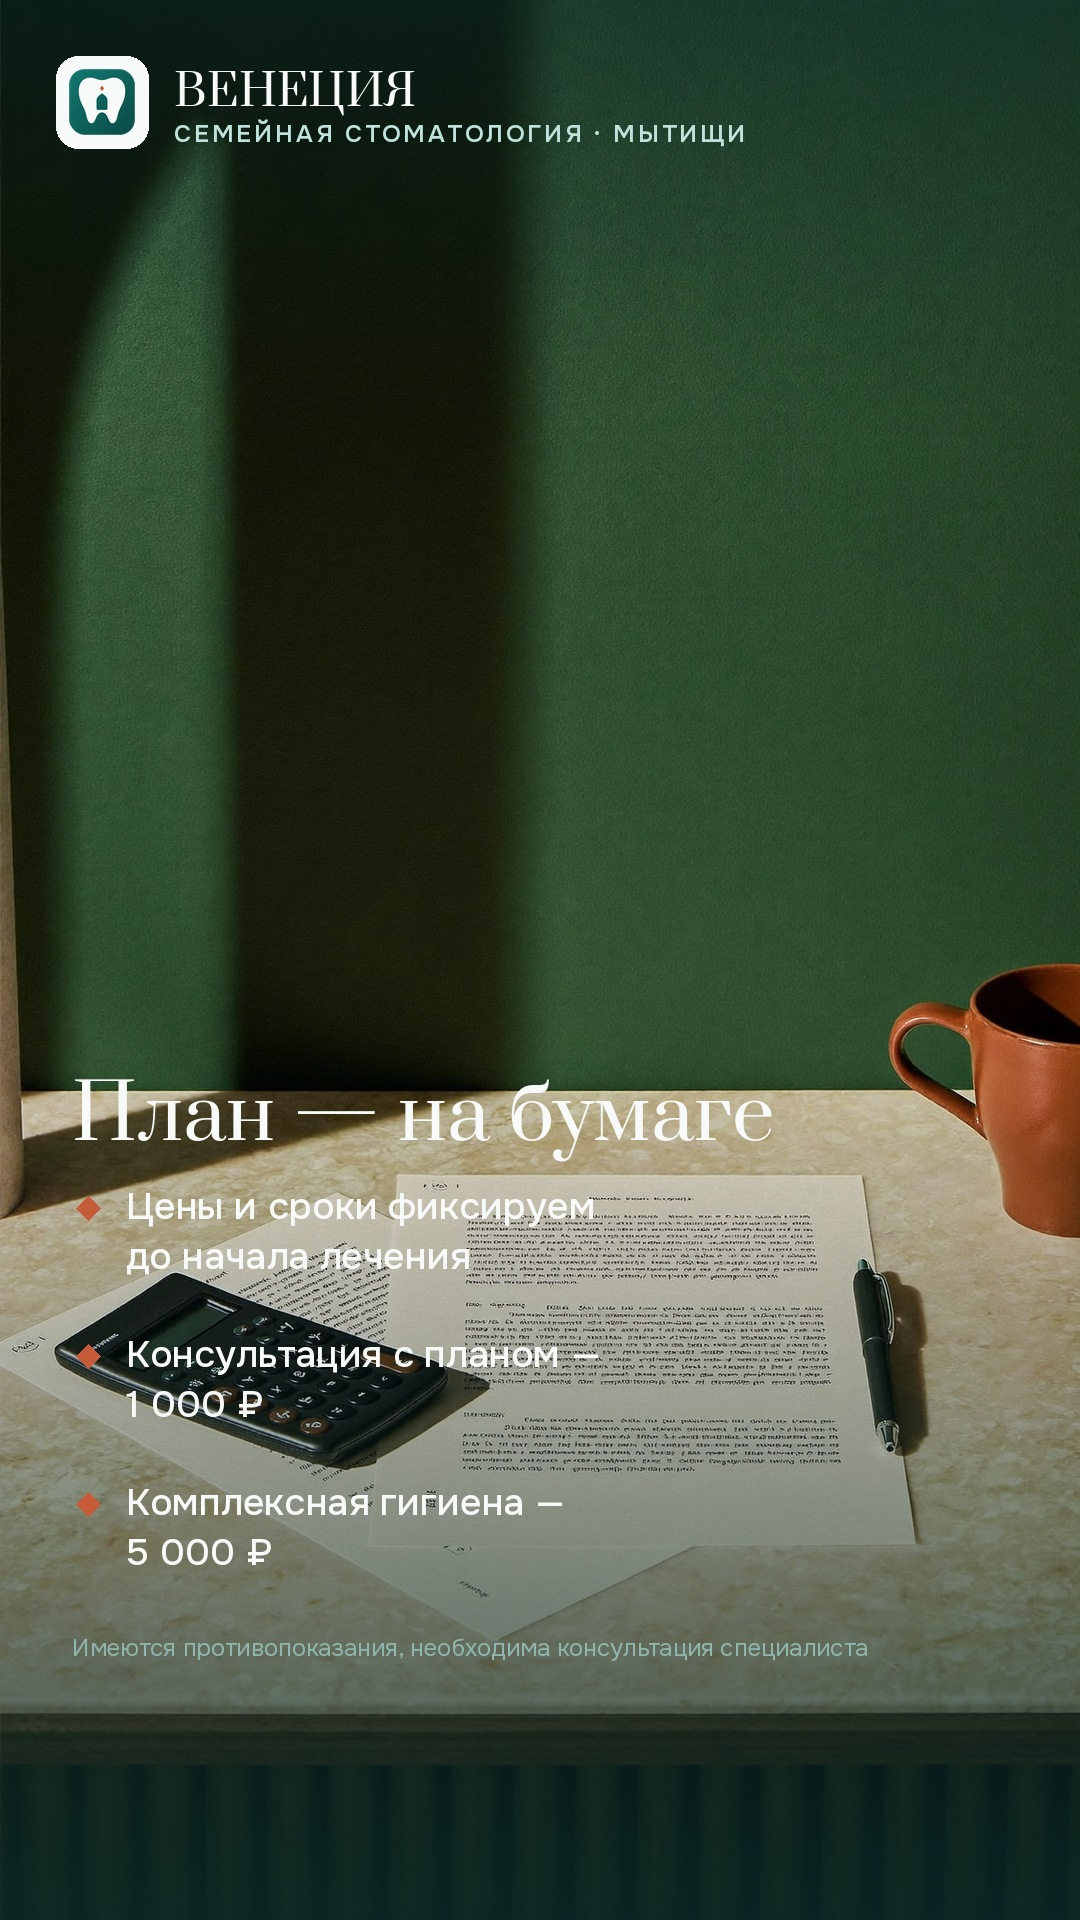
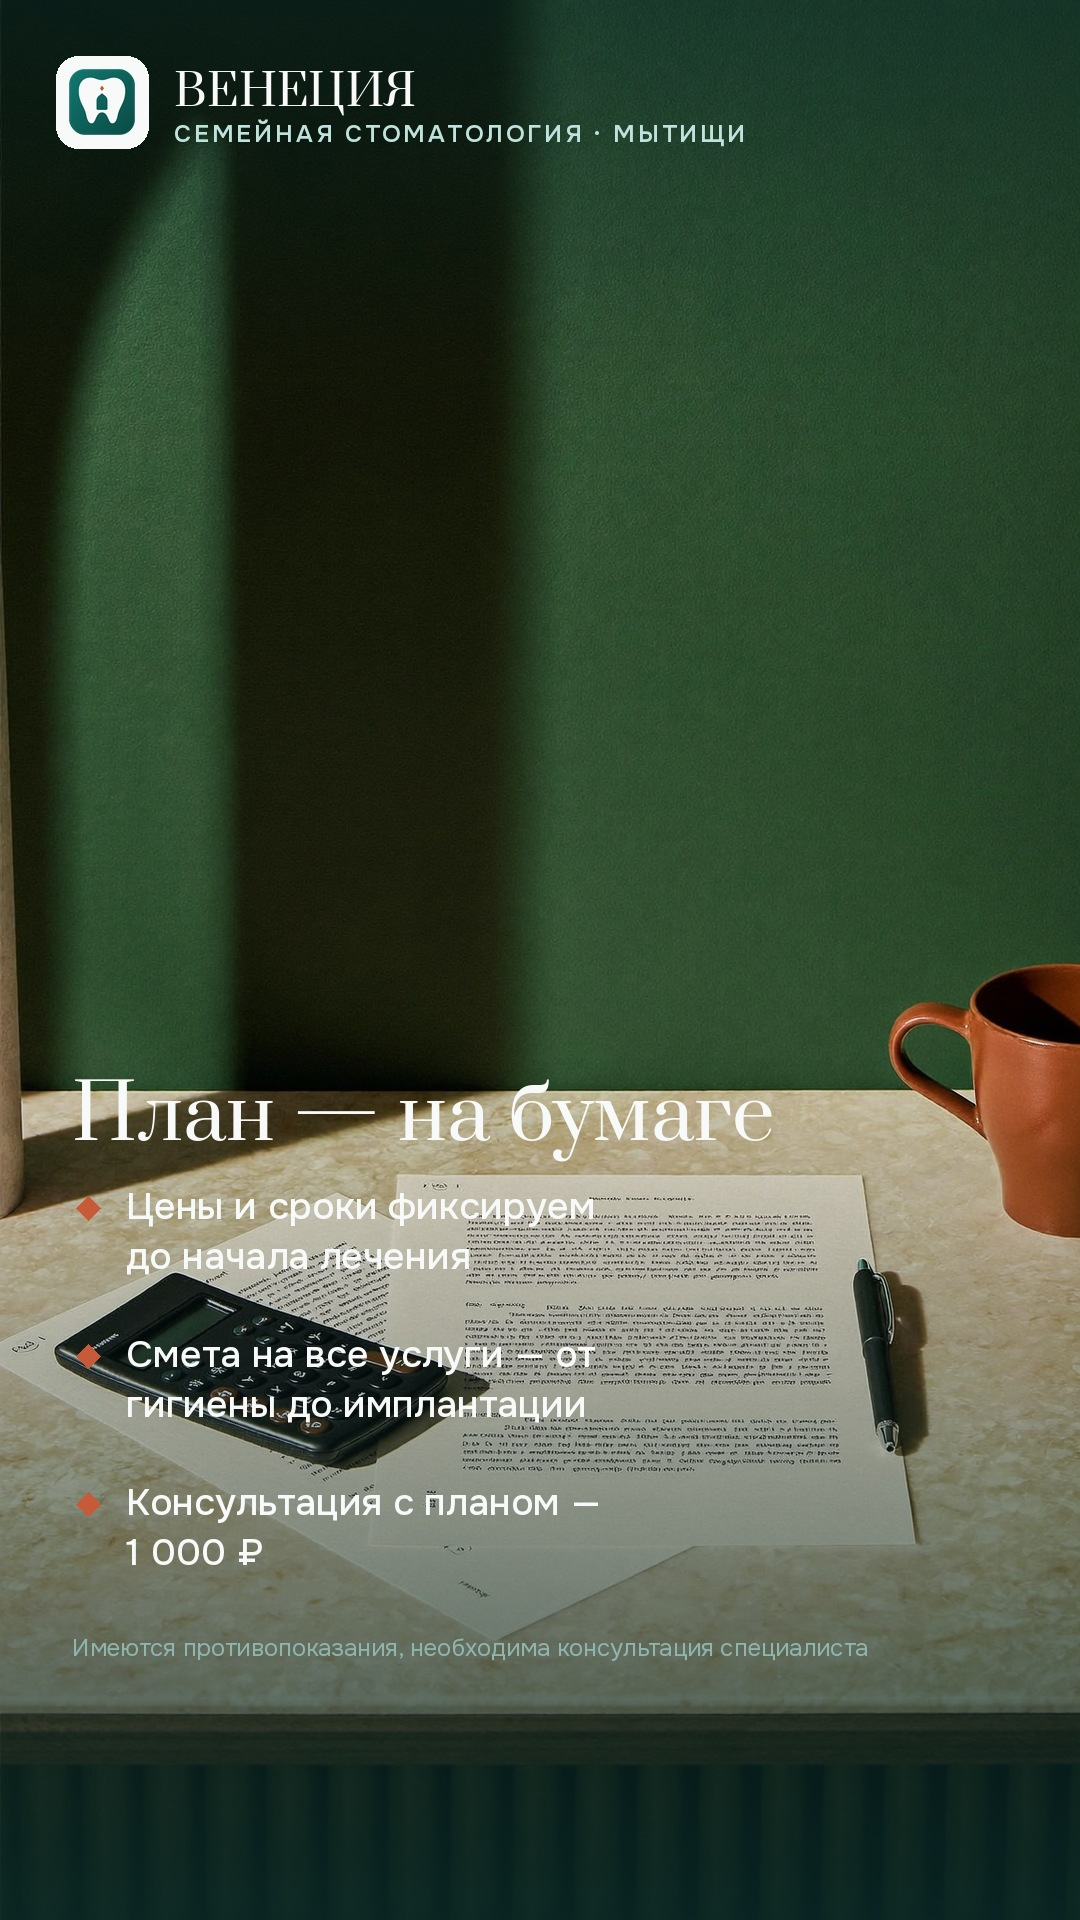
Истории ЯБ: + «Брекеты 30+» и «Имплантация», правка слайда цен
По замечанию владельца в истории «Цены честно» гигиена выглядела
случайной на фоне широкого прайса — пункт заменён на «смету на все
услуги, от гигиены до имплантации» (слайд перезалит на тот же адрес).

Две новые истории по 3 слайда: «Брекеты 30+» (миф про возраст;
брекеты от 35 000 ₽, элайнеры от 120 000 ₽, консультация бесплатно)
и «Имплантация» (Osstem от 28 000 ₽, под ключ от 45 000 ₽, каждый
третий имплант в подарок — акция с сайта). Для светлых обложек
добавлен scrim-градиент под текст; фейковая надпись на мониторе
в кадре имплантации зачищена заплаткой цвета экрана.

Итого линейка: 6 историй, 18 слайдов. Реестр и google-doc дополнены.

Claude-Session: https://claude.ai/code/session_013XQ8Akc3UN6p6GWzUw4Por

Changed region(s): [[0.1222, 0.6875, 0.55, 0.75], [0.1222, 0.7812, 0.3972, 0.8125], [0.4278, 0.7812, 0.5194, 0.8125]]

diff --git a/_materials/yb-stories/venecia-stories.py b/_materials/yb-stories/venecia-stories.py
@@ -19,7 +19,7 @@
 Prata + Onest (шрифты в ../buklet/fonts/), ромб-буллеты, лого logo-600.png.
 
 Запуск из _materials/yb-stories/:  python3 venecia-stories.py
-Выход: out/s<история>-<слайд>.jpg (12 слайдов, 4 истории по 3).
+Выход: out/s<история>-<слайд>.jpg (6 историй по 3 слайда).
 """
 import pathlib
 
@@ -63,8 +63,8 @@ SLIDES = [
     dict(bg='price-plan.png', out='s2-2.jpg', kind='points',
          title='План — на бумаге',
          points=['Цены и сроки фиксируем\nдо начала лечения',
-                 'Консультация с планом —\n1 000 ₽',
-                 'Комплексная гигиена —\n5 000 ₽'],
+                 'Смета на все услуги — от\nгигиены до имплантации',
+                 'Консультация с планом —\n1 000 ₽'],
          disclaimer=True),
     dict(bg='price-cta.png', out='s2-3.jpg', kind='cta',
          title='Без сюрпризов\nв конце',
@@ -94,6 +94,34 @@ SLIDES = [
     dict(bg='ortho-smile.png', out='s4-3.jpg', kind='cta',
          title='Узнайте\nсвой вариант',
          sub='Запись за пару минут',
+         disclaimer=True),
+
+    # История 5 — «Брекеты взрослым» (миф про возраст)
+    dict(bg='braces-cover.png', out='s5-1.jpg', kind='cover', scrim=True,
+         q='Брекеты после 30 —\nне поздно?', sub='Самый частый вопрос ортодонту'),
+    dict(bg='braces-macro.png', out='s5-2.jpg', kind='points',
+         title='Поздно не бывает',
+         points=['Зубы двигаются\nв любом возрасте',
+                 'Брекет-система под ключ —\nот 35 000 ₽',
+                 'Элайнеры — почти невидимы,\nот 120 000 ₽'],
+         disclaimer=True),
+    dict(bg='braces-cta.png', out='s5-3.jpg', kind='cta',
+         title='Ровные зубы\nидут всем',
+         sub='Консультация ортодонта — бесплатно',
+         disclaimer=True),
+
+    # История 6 — «Имплантация»
+    dict(bg='implant-cover.png', out='s6-1.jpg', kind='cover',
+         q='Потеряли зуб —\nчто дальше?', sub='Соседние зубы уже начали сдвигаться'),
+    dict(bg='implant-model.png', out='s6-2.jpg', kind='points',
+         title='Имплант — навсегда',
+         points=['Имплант Osstem —\nот 28 000 ₽',
+                 'Имплант + коронка\nпод ключ — от 45 000 ₽',
+                 'Каждый третий имплант —\nв подарок'],
+         disclaimer=True),
+    dict(bg='implant-cta.png', out='s6-3.jpg', kind='cta',
+         title='Верните полную\nулыбку',
+         sub='Жуйте, смейтесь, живите — без оглядки',
          disclaimer=True),
 ]
 
@@ -178,6 +206,15 @@ def build(slide):
 
     if slide['kind'] == 'cover':
         # бейдж + крупный вопрос + подпись
+        if slide.get('scrim'):
+            # низ фона светлый (одежда/стена) — алебастровый текст тонет;
+            # подкладываем дополнительное тёмное стекло
+            extra = Image.new('RGBA', (W, H), (0, 0, 0, 0))
+            ed = ImageDraw.Draw(extra)
+            for i, yy in enumerate(range(H - 800, H)):
+                a = int(150 * (i / 800) ** 1.1)
+                ed.line((0, yy, W, yy), fill=(10, 42, 40, a))
+            cv.alpha_composite(extra)
         y = H - BOTTOM_FREE - 560
         f_q = prata(92)
         y = multiline(d, 0, y, slide['q'], f_q, ALABASTER, 122, center=cx)

diff --git a/_materials/yb-stories/REGISTRY.md b/_materials/yb-stories/REGISTRY.md
@@ -3,7 +3,10 @@
 Правила процесса — общие с Angel/Versal (их CLAUDE.md, «Истории для ЯБ»).
 Сборка: `venecia-stories.py` (фоны в `bg/`, слайды в `out/`).
 Линейка v1 собрана 03.08.2026, **без истории про врачей** (решение
-владельца — пока не публиковать врачей в сторис).
+владельца — пока не публиковать врачей в сторис). Дополнена в тот же
+день историями 5 «Брекеты взрослым» и 6 «Имплантация»; в истории 2
+слайд s2-2 переделан: вместо цены гигиены — «смета на все услуги»
+(гигиена выглядела случайной на фоне широкого прайса).
 
 Постоянные ссылки: `https://d2ol7oe51mr4n9.cloudfront.net/user_3Di09CVa1BatdZIdE0tir1KKUxw/<id>.jpg`
 
@@ -18,7 +21,7 @@
 ## История 2 — «Цены честно»
 Название: «Цены честно» · Кнопка: «Смотреть цены» · Ссылка: https://venecia-dent.ru/ceny.html
 | 1 | Обложка «Сколько стоит лечение?» | s2-1.jpg | 5951f920-e85f-46fe-b501-d238b5cfbaa8 |
-| 2 | «План — на бумаге»: конс. 1 000 ₽, гигиена 5 000 ₽ | s2-2.jpg | aa180f27-ba28-41f0-9d41-ca521cd79edd |
+| 2 | «План — на бумаге»: смета на все услуги, конс. 1 000 ₽ | s2-2.jpg | aa180f27-ba28-41f0-9d41-ca521cd79edd |
 | 3 | CTA «Без сюрпризов в конце» | s2-3.jpg | 609a7f1a-9471-4486-818a-9883dcd418c6 |
 
 ## История 3 — «Для всей семьи»
@@ -33,15 +36,33 @@
 | 2 | «Первый шаг — 0 ₽»: конс. ортодонта бесплатно | s4-2.jpg | 4aaf68c7-cf09-4220-b832-09ba74a3b8c1 |
 | 3 | CTA «Узнайте свой вариант» | s4-3.jpg | 459f4430-80c3-42c7-b470-ba4cb15f158f |
 
+## История 5 — «Брекеты взрослым» (миф про возраст)
+Название: «Брекеты 30+» · Кнопка: «Записаться» · Ссылка: https://venecia-dent.ru/services/ortodontiya.html
+| Слайд | Суть | Файл | id |
+|---|---|---|---|
+| 1 | Обложка «Брекеты после 30 — не поздно?» | s5-1.jpg | af4eef0b-4f41-4d60-8bca-a9d6d617a039 |
+| 2 | «Поздно не бывает»: брекеты от 35 000 ₽, элайнеры от 120 000 ₽ | s5-2.jpg | c1b8037d-35eb-4245-90f6-c77077d2b71d |
+| 3 | CTA «Ровные зубы идут всем» + конс. бесплатно | s5-3.jpg | 30fa6d50-229e-4eb2-9900-fef8f7568865 |
+
+## История 6 — «Имплантация»
+Название: «Имплантация» · Кнопка: «Записаться» · Ссылка: https://venecia-dent.ru/services/implantaciya.html
+| Слайд | Суть | Файл | id |
+|---|---|---|---|
+| 1 | Обложка «Потеряли зуб — что дальше?» | s6-1.jpg | 8a7847d5-c366-4790-b032-8ba9387360fb |
+| 2 | «Имплант — навсегда»: Osstem от 28 000 ₽, под ключ от 45 000 ₽, 3-й в подарок | s6-2.jpg | 876103a7-ae69-4af1-a438-c40fd3df4655 |
+| 3 | CTA «Верните полную улыбку» | s6-3.jpg | 5fdcb461-d38c-4d12-9540-f17d27e15781 |
+
 ## Факты и цены в слайдах (менять на сайте → перегенерировать слайд)
 - Консультация с планом — 1 000 ₽ (ceny.html) → s1-3, s2-2
-- Комплексная гигиена — 5 000 ₽ (services/gigiena.html) → s2-2
 - Консультация ортодонта — 0 ₽, акция (promotions.html) → s4-2
 - Семейная программа 3–10% (index.html) → s3-2
 - −10% многодетным/военнослужащим/пенсионерам (promotions.html) → s3-2
 - График 10:00–20:00, адрес Мытищи, ул. Мира, 37 → s3-2, s3-3
+- Брекет-система от 35 000 ₽, элайнеры от 120 000 ₽ (ceny.html) → s5-2
+- Имплант Osstem от 28 000 ₽, имплант+коронка от 45 000 ₽ (ceny.html) → s6-2
+- Каждый 3-й имплант в подарок (promotions.html) → s6-2
 
 Порядок публикации: «горячую» историю заливать ПОСЛЕДНЕЙ (свежая
-показывается первой). Рекомендуемый порядок заливки:
-Цены честно → Первый… нет: Не страшно → Для всей семьи → Ровные зубы —
-последней, чтобы оффер 0 ₽ был первым на карточке.
+показывается первой). Рекомендуемый порядок заливки: Не страшно →
+Цены честно → Брекеты 30+ → Имплантация → Для всей семьи → Ровные
+зубы (0 ₽) — последней, чтобы оффер был первым на карточке.

diff --git a/CLAUDE.md b/CLAUDE.md
@@ -233,10 +233,13 @@ python3 scripts/check-layout.py --root ../Angel-Dent-site
 люди сгенерированные без имён, до/после нельзя, дисклеймер при ценах,
 нижние ~230px свободны под кнопку Яндекса.
 
-Линейка v1 (03.08.2026, 12 слайдов, БЕЗ истории про врачей — решение
+Линейка v1 (03.08.2026, 18 слайдов, БЕЗ истории про врачей — решение
 владельца): 1 «Не страшно» → 2 «Цены честно» → 3 «Для всей семьи»
 (семейная программа 3–10%) → 4 «Ровные зубы» (оффер: консультация
-ортодонта 0 ₽). Реестр слайдов/ссылок/настроек —
+ортодонта 0 ₽) → 5 «Брекеты 30+» (миф про возраст) → 6 «Имплантация»
+(Osstem от 28 000, 3-й имплант в подарок). В сюжете «Цены честно» НЕ
+выделять одну услугу (была гигиена — заменена на «смету на все
+услуги»): прайс широкий, одна услуга выглядит случайной. Реестр слайдов/ссылок/настроек —
 `_materials/yb-stories/REGISTRY.md`; сборка — `venecia-stories.py`
 (фоны в `bg/`, правишь текст → перегенерация без новых генераций).
 Папка Drive: «Венеция — Истории ЯБ v1» (id `1TxoepERg5fIhkx8u1TwXVXxVrD5J_Sk9`),
